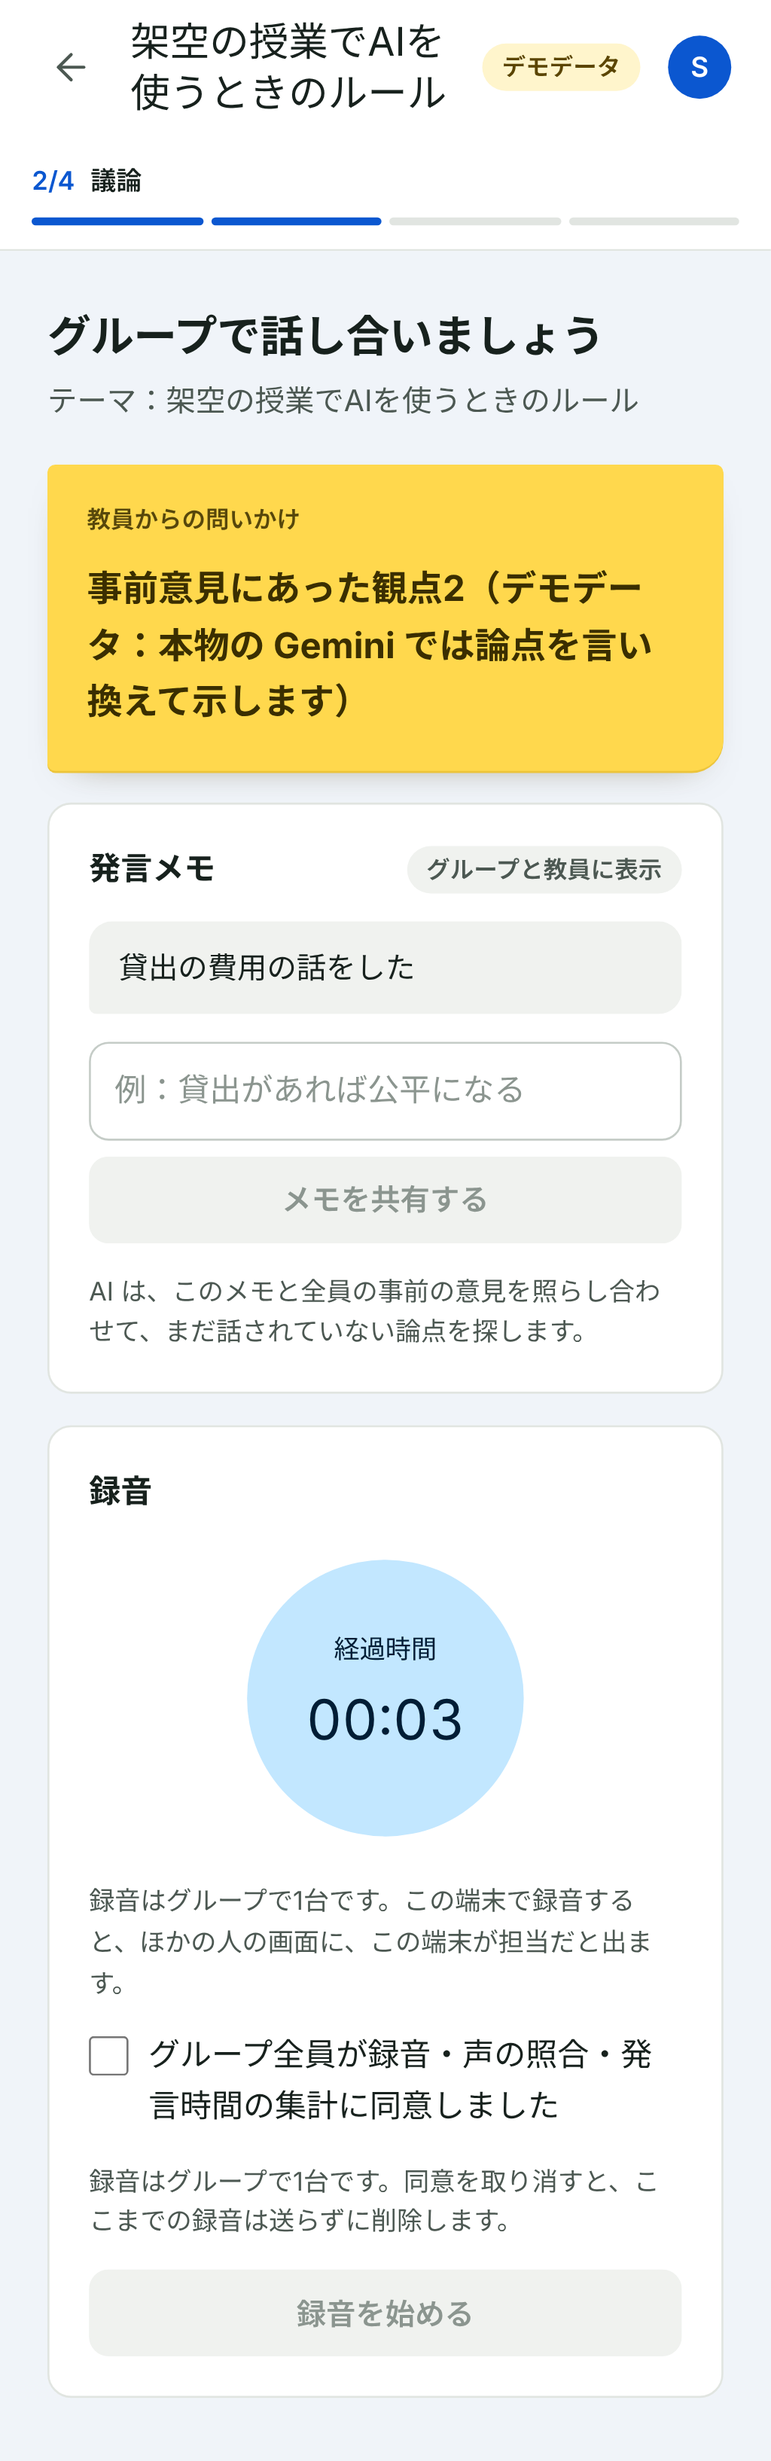
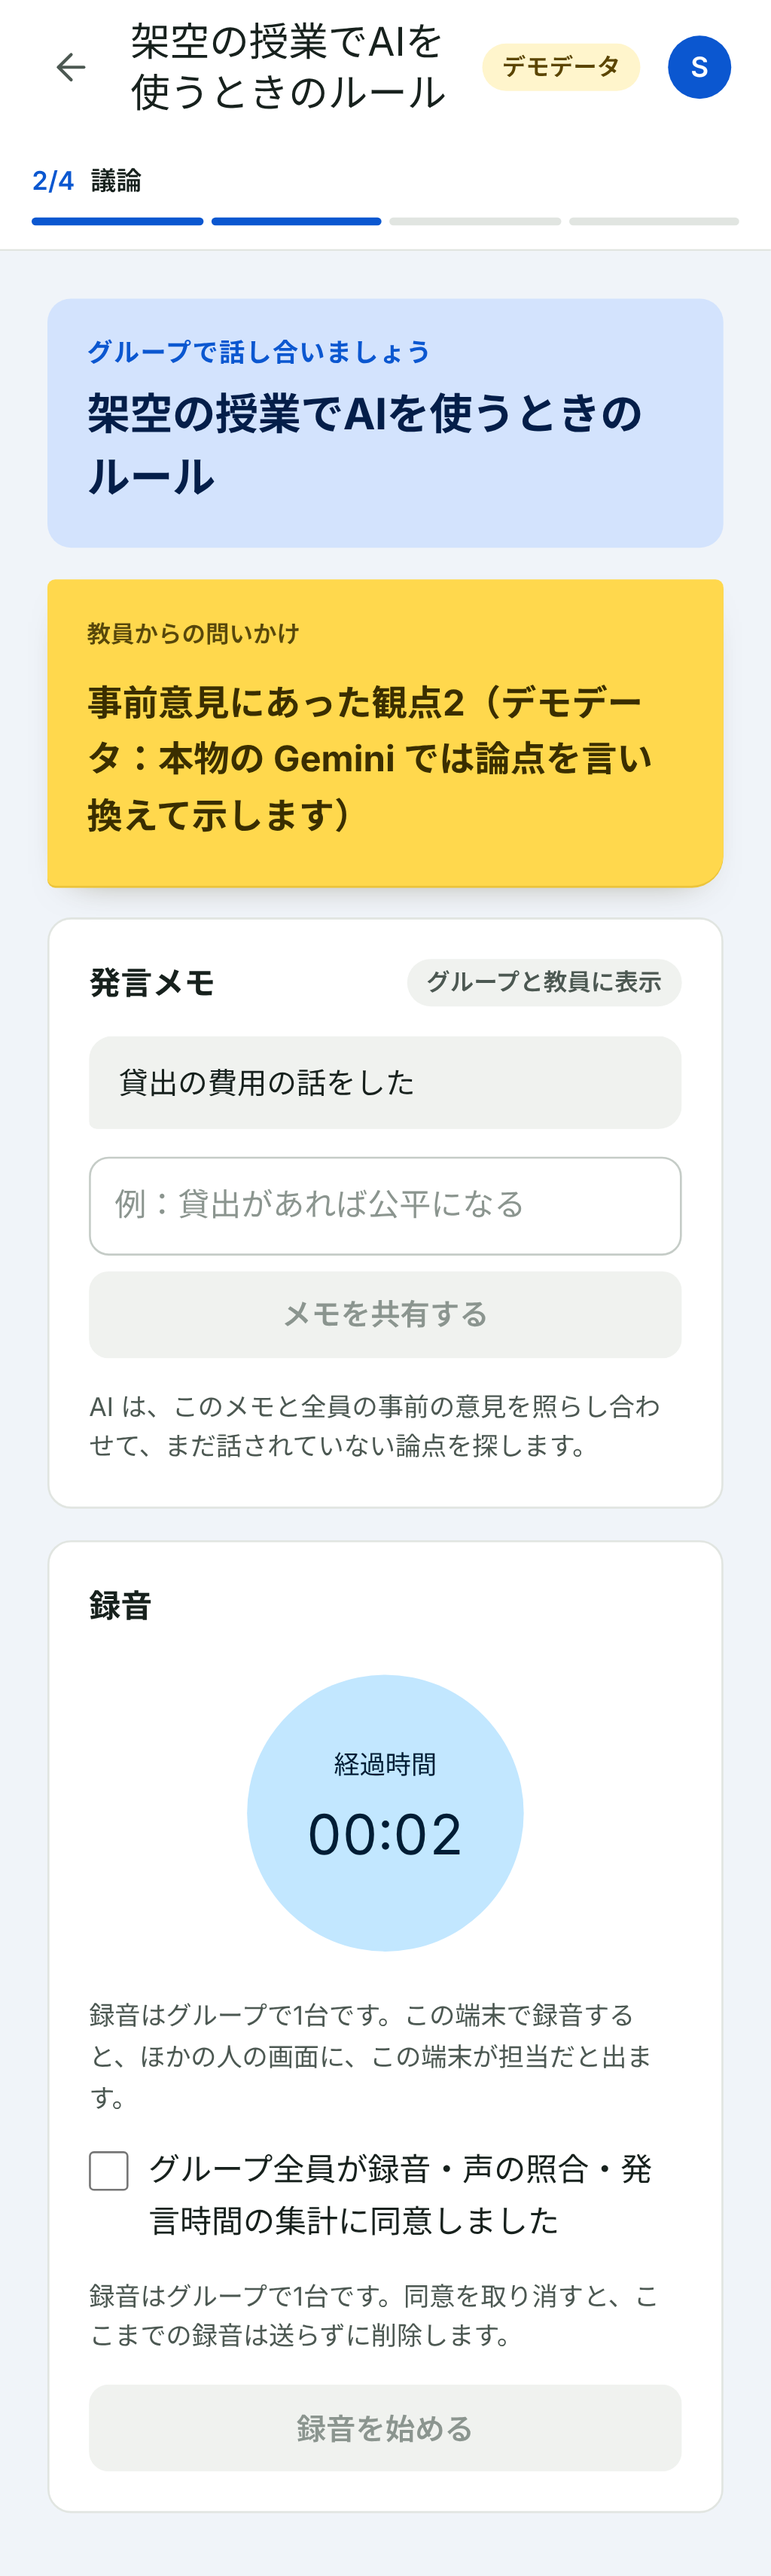
feat(web): 学生の画面でテーマを大きく出し、声の登録で読む文を3つから選ぶ (#96)
## 背景・目的

Yuto Matsui からの2点の修正依頼です。

1. 学生の画面で、ディスカッションのテーマが目立たない。
   - テーマが出ていたのは、上のヘッダー（16px）と、議論中の灰色の小さい行（15px）だけだった。
   - 議論中は、決まり文句の「グループで話し合いましょう」（22px）のほうが大きかった。
   - 事前の意見を書く画面では、本文の中にテーマがなかった。
2. 声の登録で読み上げる文「私たちは、お互いの意見を聞き、理由を考えながら、よりよいアイデアを見つけます。」が、標語のようで硬い。

課題・実装案・注意点を先に示し、Yuto
の判断で進めました。読み上げる文は「D：3つから毎回ランダムに1つ」、画面は推奨案（テーマを主役にし、決まり文句は小さい見出しとして残す）です。

## 変更内容

- **テーマのカード**（`ThemeCard`、`steps.tsx`・`ds.css`）
  - 小さいラベルの下に、テーマを大きく（20〜26px・太字）出す。
  - 色は、デザインシステムの青系の面。黄色は「教員からの問いかけ」と「未検討の論点」の色なので使わない。
  - 置いた場所（`GuidedGuest.tsx`）は次の3つ。
    - 事前の意見を書く画面の上
    - 議論中の画面の上。「グループで話し合いましょう」は、カードの小さい見出しにした
    - 議論後に結論を書く画面の上
  - 教員がテーマを隠した部屋（`participantView.theme === false`）では出さない（これまでどおり）。
  - 長いテーマ（最大1000字）は折り返し、カードの中でスクロールする。
- **声の登録の読み上げ文**（`web/src/lib/read-aloud.ts`）
  - 議論で言いそうな口語の3つから、画面を開くたびに1つを選ぶ。同じ画面の中では変えない。
  - 選ぶのは画面の表示後にしている。サーバーで描いた画面と食い違わないようにするため。
    - 「ちょっと待って。その意見もわかるけど、逆の立場から考えると、こうなるんじゃない？」
    - 「AIに聞けば答えは出る。でも、なぜそうなのかを説明できるのは、今ここにいる私たちだ。」
    - 「宇宙人に給食を一品だけすすめるなら、私はカレーを推します。理由は、だれでも笑顔になるから。」
  - ねらい：ふだんの議論に近い話し方で登録してもらう。どれも9秒で読み切れる長さ（単体テストで48字以内を確かめる）。
- **テスト**
  - E2E（`consensus-flow.spec.ts`）で次を確かめる。
    - 意見を書く画面と議論中の画面に、テーマが出る
    - 読み上げる文が、3つのうちのどれか
  - 声の登録・意見・議論中の画面のスクリーンショットを撮る。
  - 既存の E2E は、「グループで話し合いましょう」の見出しを目印にしている。見出しを残したので、既存の E2E は変えていない。

### 読んだタブと、方向性との対応

この作業の前に、チームドキュメントの全タブを読み直しました。今朝の版から増えたのは、文字のないタブ「mp4」だけです。

-
**UIフィードバック**（高校生でも次に何をするかが直感的にわかる・文章は最小限）：何について考えるかを、最初に大きく見せる。新しい説明文は足していない
[…]

diff --git a/web/src/components/participant/GuidedGuest.tsx b/web/src/components/participant/GuidedGuest.tsx
@@ -6,7 +6,8 @@ import { callApi } from "@/lib/api";
 import { authenticatedFetch } from "@/lib/session";
 import { useDoc, useCountdown, useInsights, millis, isRecordingLive, type Room, type GroupConfig, type GroupResult } from "@/lib/room";
 import { DiscussionClock } from "@/components/DiscussionClock";
-import { ConsensusStep, DiscussionNotes, OpinionStep, ResultStep } from "./steps";
+import { ConsensusStep, DiscussionNotes, OpinionStep, ResultStep, ThemeCard } from "./steps";
+import { READ_ALOUD } from "@/lib/read-aloud";
 import type { useGroupRecording } from "@/lib/recording";
 import { registerRecordingGuard } from "@/lib/recording-recovery";
 interface Own { voiceSource?: "mock" | "model"; displayName?: string; deviceMode?: "personal" | "shared"; ready?: boolean; attendees?: { id: string; displayName: string; voiceRegistered: boolean }[] }
@@ -18,6 +19,9 @@ export function GuidedGuest({ roomId, room, uid, group, recording, canRecord, re
   const status = group ? room.groupState?.[String(group)]?.status : undefined;
   const [names, setNames] = useState([""]), [mode, setMode] = useState<"personal" | "shared">("personal");
   const [error, setError] = useState(""), [busy, setBusy] = useState(false), [registering, setRegistering] = useState<string>(), [consent, setConsent] = useState(false);
+  // 読み上げる文は画面を開くたびに選び直す。サーバーの描画と食い違わないよう、最初は1つ目にしておく
+  const [readAloud, setReadAloud] = useState(0);
+  useEffect(() => setReadAloud(Math.floor(Math.random() * READ_ALOUD.length)), []);
   const [registrationSeconds, setRegistrationSeconds] = useState(0);
   const [registrationMode, setRegistrationMode] = useState<"mic" | "file">("mic");
   const [recordingConsent, setRecordingConsent] = useState(false);
@@ -147,6 +151,8 @@ export function GuidedGuest({ roomId, room, uid, group, recording, canRecord, re
   const leave = () => !recording.unsaved || window.confirm("録音がまだ送られていません。ホームに戻ると、録音は送られず分析されません。戻りますか？");
   const uploadState = recording.upload.state;
   const who = [own?.displayName, group && (room.groups ?? 1) > 1 ? `グループ${group}` : ""].filter(Boolean).join("・");
+  // テーマは、意見・議論・結論の画面の上に大きく出す。教員がテーマを隠した部屋では出さない
+  const theme = room.participantView?.theme !== false ? room.theme?.trim() : "";
   return <AppShell eyebrow={who || undefined} title={room.participantView?.theme === false ? room.title : room.theme || room.title}
     steps={<Stepper steps={STEPS} current={step} />} back="/home" onLeave={leave}>
     <div className="flow">
@@ -157,7 +163,7 @@ export function GuidedGuest({ roomId, room, uid, group, recording, canRecord, re
         {["uploading", "waiting", "done"].includes(uploadState) && <p className="notice" role="status">{uploadState === "done" ? "録音の送信・分析が完了しました。" : uploadState === "waiting" ? "グループの分析結果を待っています。録音は端末に保持しています。" : "録音を送信して分析しています。画面を閉じずにお待ちください。"}</p>}
         {uploadState === "failed" && <div className="notice notice--error stack"><p role="alert">{recording.upload.message}</p><button className="btn" onClick={() => void recording.retry()}>録音を再送する</button></div>}
         {!group ? <p className="notice">グループに入っていなかったため、結果はありません。</p>
-          : !result && status !== "done" ? <ConsensusStep bare roomId={roomId} uid={uid} title={room.theme || room.title} submitted={gs?.submitted} total={gs?.total} />
+          : !result && status !== "done" ? <>{theme && <ThemeCard theme={theme} />}<ConsensusStep bare roomId={roomId} uid={uid} title={room.theme || room.title} submitted={gs?.submitted} total={gs?.total} /></>
           : !room.resultsPublished ? <p className="notice">結果は教員が公開すると表示されます。</p>
           : <ResultStep roomId={roomId} uid={uid} group={group} title={room.theme || room.title} result={result ?? null}
             showSpeaking={room.participantView?.speaking === true} />}
@@ -181,7 +187,7 @@ export function GuidedGuest({ roomId, room, uid, group, recording, canRecord, re
       : !voiced ? <section className="flow-card" aria-labelledby="voice-title">
         <h2 id="voice-title" className="flow-card__title">声の登録</h2>
         <p className="flow-card__lead">{shared ? "1人ずつ、次の文を9秒で読み上げてください。" : "次の文を9秒で読み上げてください。"}</p>
-        <p className="read-aloud">私たちは、お互いの意見を聞き、理由を考えながら、よりよいアイデアを見つけます。</p>
+        <p className="read-aloud">{READ_ALOUD[readAloud]}</p>
         <label className="check"><input type="checkbox" checked={consent} onChange={(e) => setConsent(e.target.checked)} /><span>声の特徴の登録と、上記の利用方法に同意します</span></label>
         <details><summary className="t-small">声の使い方</summary><p className="t-small">{shared ? "話し合いの発言時間の推定に使い、セッションの終了時に削除します。" : "この議論の発言時間の推定に使います。声の特徴だけを保存し、音声そのものは保存しません。議論ごとに登録し直します（その日・その場所の声で照合するため）。"}</p></details>
         {own!.attendees!.map((a) => <div className="stack stack--tight" key={a.id}>
@@ -197,15 +203,13 @@ export function GuidedGuest({ roomId, room, uid, group, recording, canRecord, re
 
       : waiting ? (!group
         ? <p className="notice" role="status">グループの割り当てを待っています。</p>
-        : <OpinionStep bare roomId={roomId} uid={uid} total={gs?.total} opinions={gs?.opinions} canChange={false} onChangeGroup={() => {}} />)
+        : <>{theme && <ThemeCard theme={theme} />}<OpinionStep bare roomId={roomId} uid={uid} total={gs?.total} opinions={gs?.opinions} canChange={false} onChangeGroup={() => {}} /></>)
 
       : <>
-        <section className="talk-hero" aria-labelledby="talk-title">
-          <h2 id="talk-title" className="talk-hero__title">グループで話し合いましょう</h2>
-          {room.participantView?.theme !== false && room.theme && <p className="talk-hero__theme">テーマ：{room.theme}</p>}
-          {/* 時間は録音のカードの丸に出す。録音しない部屋では、ここに1行で出す（残り時間か経過時間を、つねに表示） */}
-          {room.recording === false && <DiscussionClock room={room} variant="line" />}
-        </section>
+        {/* 主役はテーマ。「グループで話し合いましょう」は、テーマの上の小さい見出しにする */}
+        {theme ? <ThemeCard theme={theme} heading="グループで話し合いましょう" /> : <h2 className="talk-hero__title">グループで話し合いましょう</h2>}
+        {/* 時間は録音のカードの丸に出す。録音しない部屋では、ここに1行で出す（残り時間か経過時間を、つねに表示） */}
+        {room.recording === false && <DiscussionClock room={room} variant="line" />}
         {/* 教員が承認した問いかけ（まだ話されていない論点）は、届いたらメモより上に出す */}
         {insights.length > 0 && question}
         <DiscussionNotes bare roomId={roomId} />

diff --git a/web/src/app/ds.css b/web/src/app/ds.css
@@ -737,6 +737,12 @@ progress::-moz-progress-bar { background: var(--brand); }
 .talk-hero { display: flex; flex-direction: column; gap: 4px; padding: 4px 0 4px; }
 .talk-hero__title { font-size: 22px; font-weight: 700; line-height: 1.4; letter-spacing: -.01em; }
 .talk-hero__theme { font-size: 15px; color: var(--ink-2); }
+/* 話し合うテーマ。決まり文句より目立たせ、学生が何について考えるかを最初に見せる。黄色は問いかけ・未検討の論点の色なので使わない */
+.theme-card { display: flex; flex-direction: column; gap: 6px; padding: 18px 20px 20px; border-radius: var(--r-panel); background: var(--brand-soft); color: var(--brand-ink); }
+.theme-card__label { margin: 0; font-size: 13px; font-weight: 700; letter-spacing: .04em; color: var(--brand); }
+.theme-card__text { font-size: clamp(20px, 5.6vw, 26px); font-weight: 700; line-height: 1.45; letter-spacing: -.01em; overflow-wrap: anywhere; text-wrap: pretty; max-height: 9.5lh; overflow-y: auto; }
+.shell[data-tone="board"] .theme-card { background: rgb(255 255 255 / .08); color: #fff; }
+.shell[data-tone="board"] .theme-card__label { color: var(--chalk-2); }
 .talk-hero__timer { align-self: flex-start; margin-top: 6px; padding: 4px 12px; border-radius: 999px; background: var(--brand-soft); color: var(--brand-ink); font-size: 14px; font-weight: 600; font-variant-numeric: tabular-nums; }
 .memo__feed { list-style: none; margin: 0; padding: 0; max-height: 320px; }
 .memo__feed .bubble { max-width: 100%; }

diff --git a/web/src/components/participant/steps.tsx b/web/src/components/participant/steps.tsx
@@ -13,6 +13,16 @@ import { useDoc, useMessages, type GroupResult } from "@/lib/room";
 // 旧フロー（ParticipantRoom）と新しい流れ（GuidedGuest）の両方で使う参加者の手順
 
 /** 旧フローでは画面の中央に置き、新しい流れでは親の列にそのまま並べる */
+/** 学生の画面で、話し合うテーマを大きく出す（意見・議論・結論の画面の上） */
+export function ThemeCard({ theme, heading }: { theme: string; heading?: string }) {
+  return (
+    <section className="theme-card" aria-label={heading ? undefined : `テーマ：${theme}`} aria-labelledby={heading ? "theme-card-heading" : undefined}>
+      {heading ? <h2 id="theme-card-heading" className="theme-card__label">{heading}</h2> : <p className="theme-card__label">テーマ</p>}
+      <p className="theme-card__text">{heading && <span className="sr-only">テーマ：</span>}{theme}</p>
+    </section>
+  );
+}
+
 function Wrap({ bare, children }: { bare: boolean; children: React.ReactNode }) {
   return bare ? <>{children}</> : <div className="body body--center">{children}</div>;
 }

diff --git a/web/src/lib/read-aloud.ts b/web/src/lib/read-aloud.ts
@@ -1,0 +1,9 @@
+/**
+ * 声の登録で読み上げる文。議論で本当に言いそうな口語にして、ふだんの話し方で登録してもらう（照合の条件を実際の議論に近づける）。
+ * どれも9秒で読み切れる長さで、早口言葉のようにつかえる音の並びは避けた。画面を開くたびに1つを選び、同じ画面の中では変えない。
+ */
+export const READ_ALOUD = [
+  "ちょっと待って。その意見もわかるけど、逆の立場から考えると、こうなるんじゃない？",
+  "AIに聞けば答えは出る。でも、なぜそうなのかを説明できるのは、今ここにいる私たちだ。",
+  "宇宙人に給食を一品だけすすめるなら、私はカレーを推します。理由は、だれでも笑顔になるから。",
+] as const;

diff --git a/web/src/lib/read-aloud.test.ts b/web/src/lib/read-aloud.test.ts
@@ -1,0 +1,7 @@
+import { expect, it } from "vitest";
+import { READ_ALOUD } from "./read-aloud";
+
+it("読み上げる文は、録音の9秒で読み切れる長さにする", () => {
+  expect(READ_ALOUD.length).toBeGreaterThanOrEqual(2);
+  for (const text of READ_ALOUD) expect([...text].length).toBeLessThanOrEqual(48);
+});
